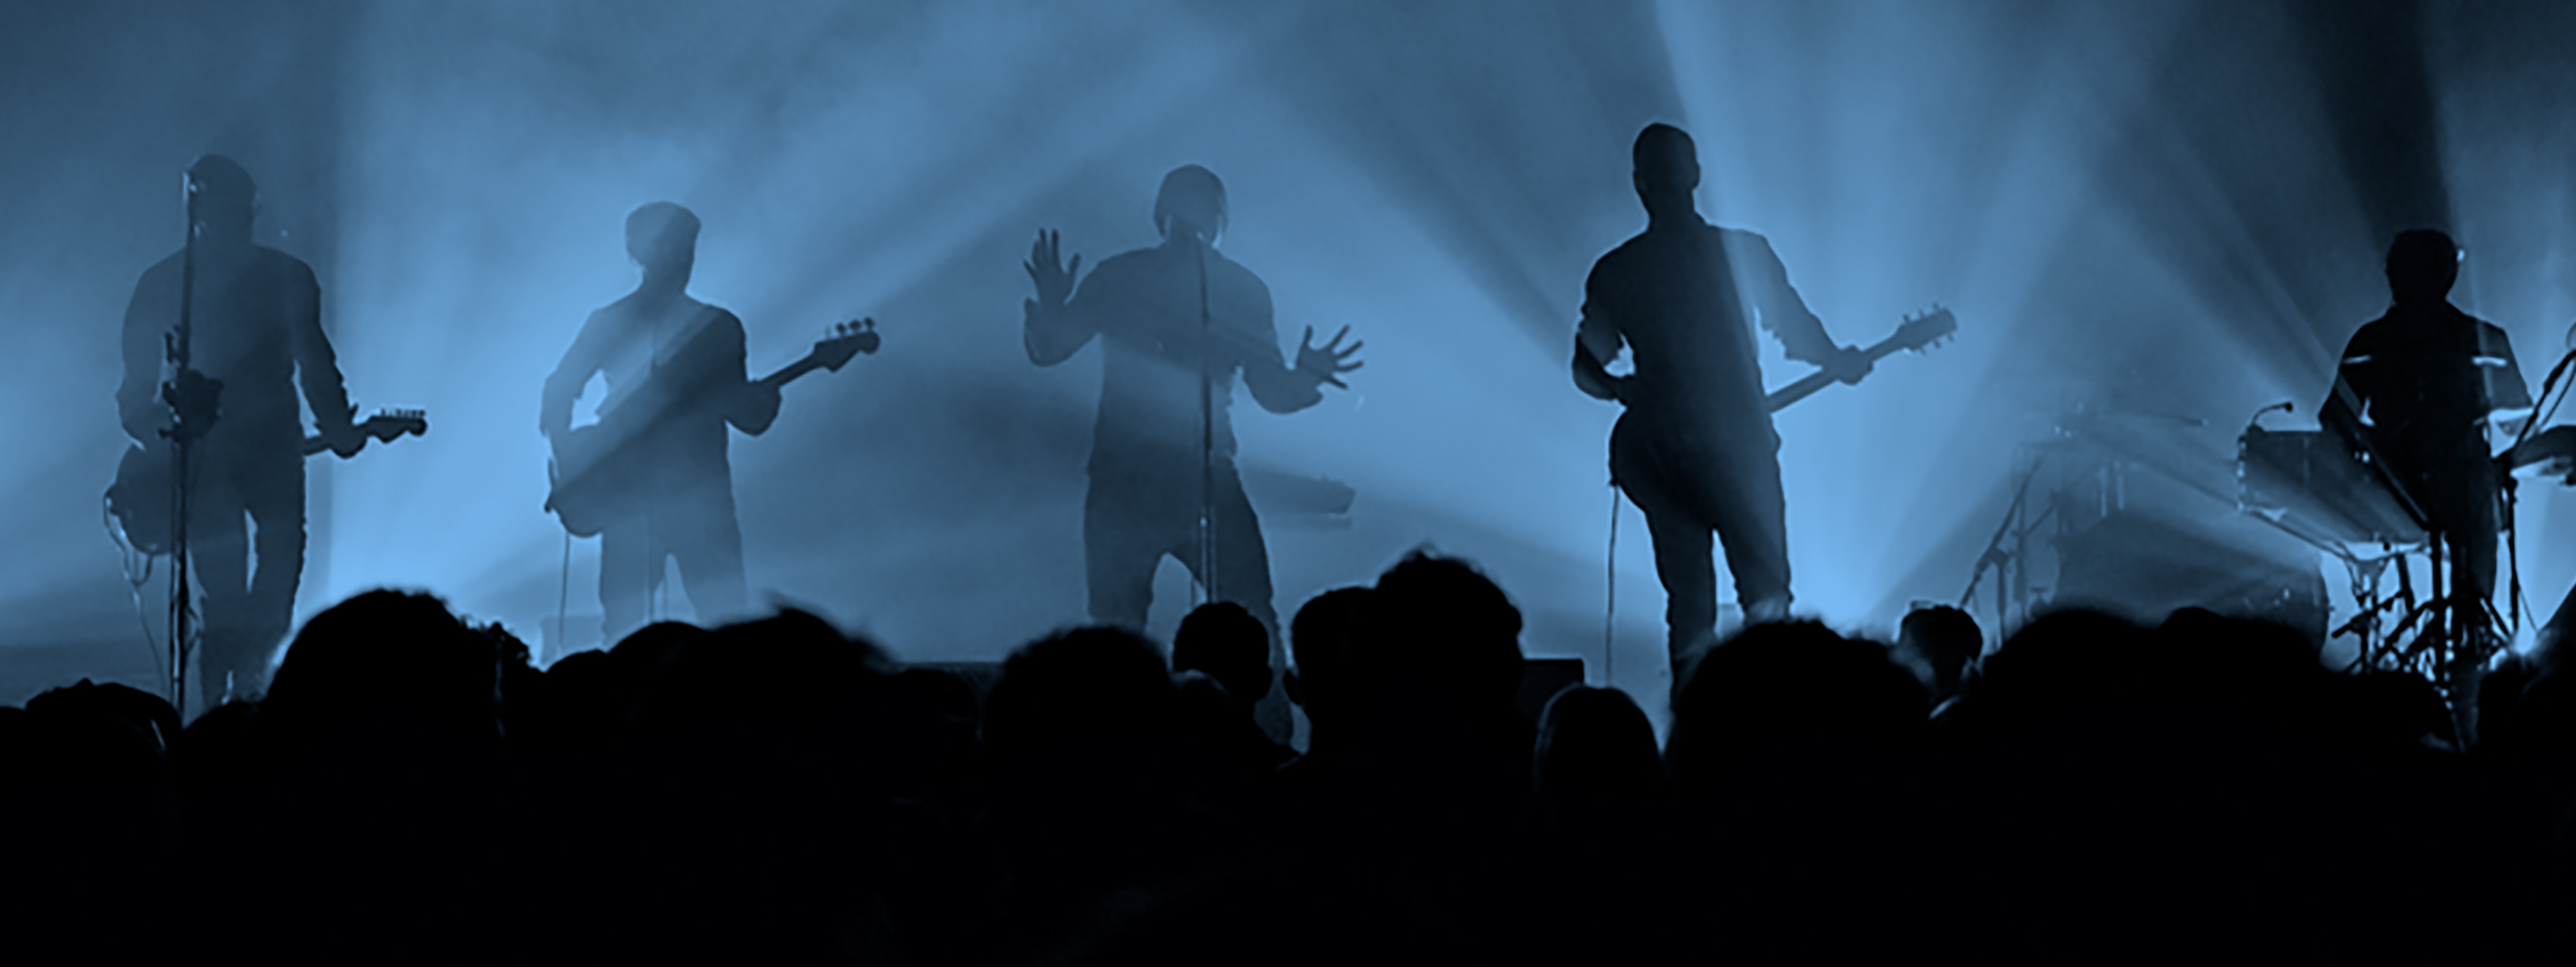
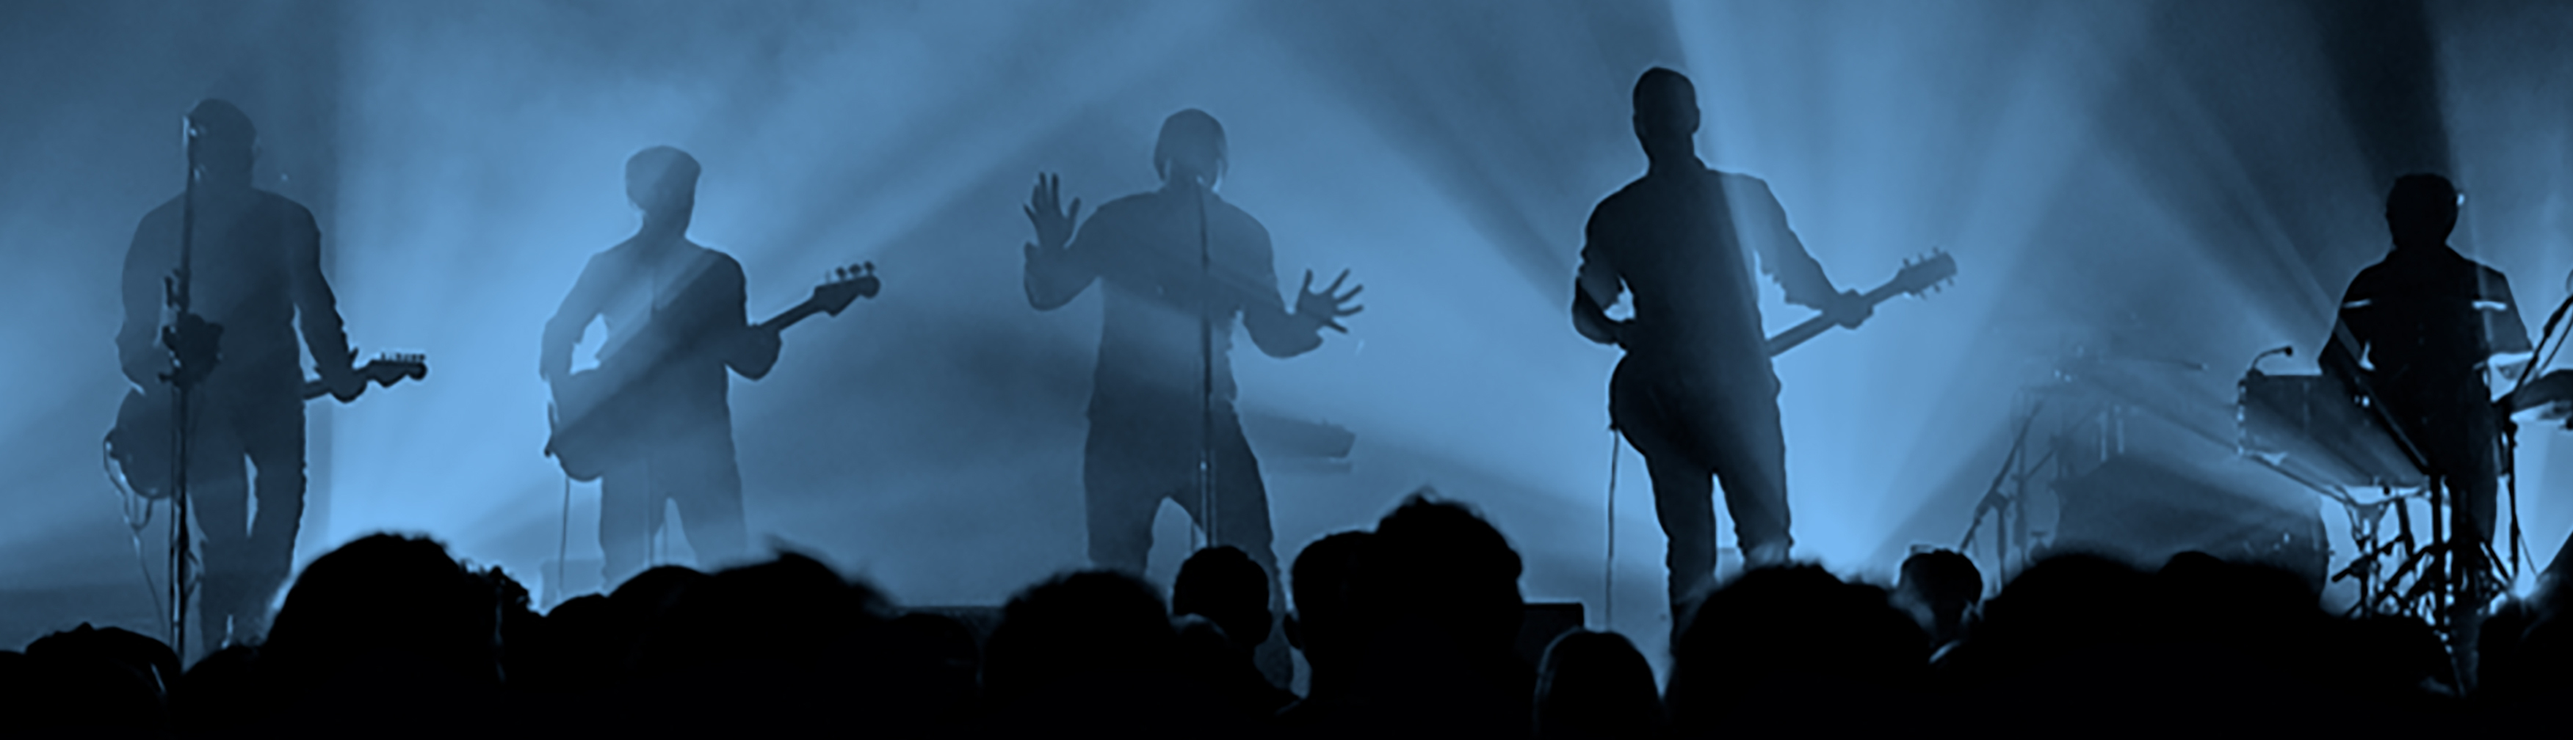
redimension des images, mise en bloc photo et textes

diff --git a/public/assets/css/custom_style.css b/public/assets/css/custom_style.css
@@ -12,3 +12,7 @@ footer {
 body{
     background-image: url('assets/images/fond.jpg');
 }
+
+h5{
+    text-align: center;
+}

diff --git a/src/Controller/HomeController.php b/src/Controller/HomeController.php
@@ -15,6 +15,11 @@ class HomeController extends AbstractController
         return $this->render('pages/home.html.twig');
     }
 
+    public function vitrine_groupe()
+    {
+        return $this->render('pages/vitrine_groupe.html.twig');
+    }
+
     
 
     
